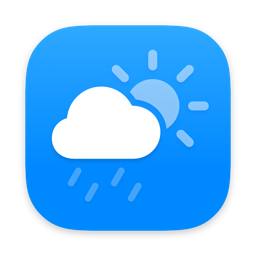
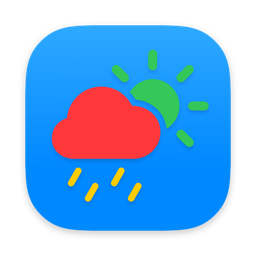
feat: make the default symbol palette red, green, yellow
The palette's three slots now default to three distinct hues, on both surfaces.
`ForegroundSpec.defaultPalette` is the one place they live, and the CLI help
text derives its `(default: ...)` from it.

The old default was the worse of two problems. Palette rendering was
`white, white:0.5, white:0.26` on the CLI, and one hue at three opacities is
*precisely* what hierarchical rendering draws -- so palette at its own default
rendered identically to hierarchical: maximum channel difference 4, 0.000% of
pixels changed on a three-layer symbol. Choosing palette and seeing no change
was the whole of what a user learned from it. It is 254 and 14.25% now, and the
badge's 204 and 8.18%.

**There were two defaults, and that is why this touches the CLI's structure.**
`ForegroundSpec` defaulted to white/mint/yellow while
`IconGenerationRunner.cliPaletteDefault` seeded white/white:0.5/white:0.26 over
it, so "the default palette" meant one thing to a flags-only `generate` and
another to `--config` and the GUI. That divergence is the only reason
`buildIconSettings` ever needed its `seedsCLIDefaults` flag. Both are deleted:
with one default, seeding it and leaving it alone produce the same settings, and
the palette now reads like every other flag -- assigned only when passed.
Verified: explicit `--icon-symbol-palette red,green,yellow` renders byte-
identically to passing nothing.

Also fixes two hardcoded defaults in help strings, which the plan's own rule
[…]

diff --git a/mica-cli/CLI/IconGenerationRunner.swift b/mica-cli/CLI/IconGenerationRunner.swift
@@ -8,14 +8,21 @@ import UniformTypeIdentifiers
 /// It parses nothing and owns no command-line surface — `GenerateCommand` does that.
 class IconGenerationRunner {
 
-    /// The palette `generate` falls back to when `--icon-symbol-palette` /
-    /// `--badge-symbol-palette` is absent: three tints of white.
-    ///
-    /// This is the one CLI default that genuinely differs from the model —
-    /// `ForegroundSpec` defaults to white/mint/yellow, which is the GUI's pick. It
-    /// is kept as a seed rather than an inline `??` so that `--config` can decline
-    /// it and let a configuration's own palette stand.
-    static let cliPaletteDefault = "white,white:0.5,white:0.26"
+    // There is no CLI palette default here any more, and that is the point.
+    //
+    // `cliPaletteDefault` used to hold "white,white:0.5,white:0.26" — the one CLI
+    // default that genuinely differed from the model's, which defaulted to
+    // white/mint/yellow. It existed as a *seed* rather than an inline `??` purely
+    // so `--config` could decline it and let a configuration's own palette stand,
+    // and it is the only reason `buildIconSettings` ever needed a
+    // `seedsCLIDefaults` flag.
+    //
+    // Both are gone as of 2026-08-18: `ForegroundSpec.defaultPalette` is now the
+    // single default for both surfaces, so seeding it and leaving it alone produce
+    // the same settings, and the palette reads like every other flag — assigned
+    // only when passed. Don't reintroduce a CLI-side palette default; a second
+    // default is what made a flags-only `generate` and a `--config` run disagree
+    // about a colour nobody had set.
 
     // MARK: - Main Generation Method
 
@@ -246,18 +253,13 @@ class IconGenerationRunner {
     /// **every** assignment here must be conditional on its flag being present — an
     /// unconditional write would silently discard what the user saved.
     ///
-    /// That is why almost nothing below assigns eagerly. The two deliberate
-    /// exceptions are the palette (see `cliPaletteDefault`) and the badge
-    /// activation rule, both commented where they happen.
+    /// That is why almost nothing below assigns eagerly. The one deliberate
+    /// exception left is the badge activation rule, commented where it happens.
+    /// The palette used to be the other; it no longer needs to be, because the
+    /// CLI and the model share one default now. See the note at the top of the
+    /// class.
     private func buildIconSettings(from command: GenerateCommand, onto base: IconSettings? = nil) throws -> IconSettings {
         var settings = base ?? IconSettings()
-
-        // The CLI's default palette is three tints of white, which deliberately
-        // differs from `ForegroundSpec`'s white/mint/yellow (the GUI's pick). It
-        // is a real CLI default, so a flags-only `generate` seeds it; `--config`
-        // must not, or a configuration's palette would be overwritten whenever
-        // the flag is absent.
-        let seedsCLIDefaults = (base == nil)
 
         do {
             // Export properties. Each flag is Optional and assigned only when
@@ -408,11 +410,10 @@ class IconGenerationRunner {
                 settings.icon.foreground.hierarchicalColor = parsed
             }
 
-            // Palette colours. A flags-only `generate` seeds the CLI default;
-            // `--config` leaves the configuration's palette alone unless
-            // --icon-symbol-palette says otherwise.
-            if let palette = command.iconForeground.symbolPalette
-                ?? (seedsCLIDefaults ? Self.cliPaletteDefault : nil) {
+            // Palette colours, assigned only when passed — like every other flag.
+            // An absent flag leaves `ForegroundSpec.defaultPalette` on a flags-only
+            // run, or a configuration's own palette under `--config`.
+            if let palette = command.iconForeground.symbolPalette {
                 let parts = try splitPalette(palette, role: "--icon-symbol-palette")
                 settings.icon.foreground.palettePrimaryColor = try MicaColorValue(strictlyParsing: parts[0])
                 settings.icon.foreground.paletteSecondaryColor = try MicaColorValue(strictlyParsing: parts[1])
@@ -572,9 +573,8 @@ class IconGenerationRunner {
                     settings.badge.foreground.hierarchicalColor = parsed
                 }
 
-                // Badge palette — seeded for `generate` only, as with the icon's.
-                if let badgePalette = command.badge.symbolPalette
-                    ?? (seedsCLIDefaults ? Self.cliPaletteDefault : nil) {
+                // Badge palette — assigned only when passed, as with the icon's.
+                if let badgePalette = command.badge.symbolPalette {
                     let parts = try splitPalette(badgePalette, role: "--badge-symbol-palette")
                     settings.badge.foreground.palettePrimaryColor = try MicaColorValue(strictlyParsing: parts[0])
                     settings.badge.foreground.paletteSecondaryColor = try MicaColorValue(strictlyParsing: parts[1])

diff --git a/mica-cli Tests/BaseOverrideTests.swift b/mica-cli Tests/BaseOverrideTests.swift
@@ -310,14 +310,35 @@ struct BaseOverrideTests {
 
     // MARK: - `generate` is unaffected
     //
-    // The same builder with no base must still produce the CLI's own defaults,
-    // including the palette that differs from the model's.
+    // The same builder with no base must still produce the model's defaults.
 
-    @Test("generate still seeds the CLI's white palette")
-    func generateStillSeedsTheCLIPalette() throws {
+    // Asserts against `ForegroundSpec.defaultPalette` rather than three literals,
+    // deliberately: the claim is that the CLI and the model agree on the palette,
+    // and a literal here would let them drift apart while the test still passed.
+    // There were two palette defaults until 2026-08-18 — the CLI seeded
+    // white/white:0.5/white:0.26 over the model's white/mint/yellow — and this is
+    // the test that would have caught a re-divergence.
+    @Test("a flags-only generate leaves the model's palette default in place")
+    func generateUsesTheModelPaletteDefault() throws {
         let settings = try IconGenerationRunner().buildTestSettings(from: parseCommand(["--icon-symbol", "star.fill"]))
-        #expect(settings.icon.foreground.palettePrimaryColor == (try MicaColorValue(parsing: "white")))
-        #expect(settings.icon.foreground.paletteSecondaryColor == (try MicaColorValue(parsing: "white:0.5")))
-        #expect(settings.icon.foreground.paletteTertiaryColor == (try MicaColorValue(parsing: "white:0.26")))
+        #expect(settings.icon.foreground.palettePrimaryColor == ForegroundSpec.defaultPalette[0])
+        #expect(settings.icon.foreground.paletteSecondaryColor == ForegroundSpec.defaultPalette[1])
+        #expect(settings.icon.foreground.paletteTertiaryColor == ForegroundSpec.defaultPalette[2])
+        #expect(settings.badge.foreground.palettePrimaryColor == ForegroundSpec.defaultPalette[0])
+        #expect(settings.badge.foreground.paletteSecondaryColor == ForegroundSpec.defaultPalette[1])
+        #expect(settings.badge.foreground.paletteTertiaryColor == ForegroundSpec.defaultPalette[2])
+    }
+
+    // The reason the default is three hues and not three tints of one. Palette at
+    // its default used to render *identically* to hierarchical, because
+    // white/white:0.5/white:0.26 is exactly what hierarchical draws — so choosing
+    // palette and seeing no change was all a reader learned. This pins the fix at
+    // the level that matters: the three slots must be three different colours.
+    @Test("the default palette is three distinct colours, so palette differs from hierarchical")
+    func defaultPaletteIsThreeDistinctColours() throws {
+        let palette = ForegroundSpec.defaultPalette
+        #expect(palette.count == 3)
+        #expect(Set(palette.map(\.stringValue)).count == 3, "the default palette must not be three tints of one colour")
+        #expect(ForegroundSpec.defaultPaletteCLIValue == "red,green,yellow")
     }
 }

diff --git a/Mica/Models/IconSettings.swift b/Mica/Models/IconSettings.swift
@@ -278,6 +278,29 @@ struct ForegroundSpec: Equatable {
     static let symbolScaleRange: ClosedRange<Double> = 0.3...2.0
     static let imageScaleRange: ClosedRange<Double> = 0.3...2.0
 
+    /// The palette's three slots, primary first — and **three distinct hues on
+    /// purpose**, because the default is the only thing that tells a reader what
+    /// palette rendering *is*.
+    ///
+    /// It was `white, white:0.5, white:0.26` on the CLI and `white, mint, yellow`
+    /// in the model until 2026-08-18. The white tints were the worse half of that,
+    /// and not by a little: one hue at three opacities is *precisely* what
+    /// hierarchical rendering draws, so palette at its own default rendered
+    /// **identically** to hierarchical — measured at a maximum channel difference
+    /// of 4 and 0.000% of pixels changed on a three-layer symbol. Choosing palette
+    /// and seeing no change is the whole of what a reader learned from it.
+    ///
+    /// Keep them distinct hues, then, rather than tints of one. The point of the
+    /// mode is that each layer takes its own colour, and the default has to show it.
+    static let defaultPalette: [MicaColorValue] = [.red, .green, .yellow]
+
+    /// `defaultPalette` as the `--icon-symbol-palette` / `--badge-symbol-palette`
+    /// value that reproduces it, for help text. Derived, so a help string can
+    /// never drift from the constant the way the two hardcoded ones did.
+    static var defaultPaletteCLIValue: String {
+        defaultPalette.map(\.stringValue).joined(separator: ",")
+    }
+
     var source: ForegroundSource = .symbol
     var symbolName: String
     var symbolWeight: SymbolWeight = .auto
@@ -288,9 +311,9 @@ struct ForegroundSpec: Equatable {
     var renderingStyle: SymbolRenderingStyle = .monochrome
     var fillStyle: SymbolFillStyle = .flat
     var hierarchicalColor: MicaColorValue = .white
-    var palettePrimaryColor: MicaColorValue = .white
-    var paletteSecondaryColor: MicaColorValue = .mint
-    var paletteTertiaryColor: MicaColorValue = .yellow
+    var palettePrimaryColor: MicaColorValue = ForegroundSpec.defaultPalette[0]
+    var paletteSecondaryColor: MicaColorValue = ForegroundSpec.defaultPalette[1]
+    var paletteTertiaryColor: MicaColorValue = ForegroundSpec.defaultPalette[2]
     var drawsShadow: Bool = true
     var isHidden: Bool
 

diff --git a/Mica/Services/MicaConfig.swift b/Mica/Services/MicaConfig.swift
@@ -34,11 +34,12 @@
 //   defaults, the inverted padding keys, mode-polymorphic colour keys. The
 //   equivalence test in `ConfigFlagParityTests` is the drift alarm; change one
 //   side only with that test in view.
-// - **The palette is NOT seeded.** A flags-only `generate` seeds the CLI's
-//   white-tints palette; a configuration is a *base*, so an absent
-//   `icon-symbol-palette` means the model default (white/mint/yellow), exactly
-//   as `--config`'s override machinery expects. This is the one deliberate
+// - **An absent `icon-symbol-palette` means `ForegroundSpec.defaultPalette`**,
+//   and it means that on both surfaces. Until 2026-08-18 it did not: a flags-only
+//   `generate` seeded a CLI-only white-tints palette while a configuration fell
+//   back to the model's white/mint/yellow, which was the one deliberate
 //   divergence between "decode a config" and "parse the same values as flags".
+//   One default now, so there is nothing here to keep in step.
 //
 // Imported images are file paths (like the flags): relative paths resolve
 // against the JSON file's directory, and the GUI export allocates sidecar PNGs
@@ -677,8 +678,8 @@ private struct ConfigReader {
         } else if let symbol = appexColor(.iconSymbolColor) {
             appexColors.iconSymbol = symbol
         }
-        // The palette is deliberately NOT seeded with the CLI default — a
-        // configuration is a base, and an absent key means the model default.
+        // An absent key means `ForegroundSpec.defaultPalette`, which is what the
+        // flags do too — a configuration is a base, and there is one default.
         if let parts = colorList(.iconSymbolPalette, expecting: 3) {
             if let primary = parseColor(parts[0], key: .iconSymbolPalette) {
                 settings.icon.foreground.palettePrimaryColor = primary

diff --git a/mica-cli/CLI/GenerateCommand.swift b/mica-cli/CLI/GenerateCommand.swift
@@ -343,7 +343,7 @@ struct IconForegroundOptions: ParsableArguments {
         name: .customLong("icon-symbol-palette"),
         help: ArgumentHelp(
             "Palette colors for palette rendering",
-            discussion: "Three comma-separated colors 'c1,c2,c3', each taking any single-colour form that contains no comma (e.g. 'blue,white:0.5,white:0.26'). Default: white,white:0.5,white:0.26.",
+            discussion: "Three comma-separated colors 'c1,c2,c3', each taking any single-colour form that contains no comma (e.g. 'blue,white:0.5,white:0.26'). \(defaultNote(ForegroundSpec.defaultPaletteCLIValue))",
             valueName: "c1,c2,c3"
         )
     )
@@ -668,7 +668,7 @@ struct BadgeOptions: ParsableArguments {
         name: .customLong("badge-symbol-palette"),
         help: ArgumentHelp(
             "Palette colors for badge palette rendering",
-            discussion: "Three comma-separated colors 'c1,c2,c3', each taking any single-colour form that contains no comma. Default: white,white:0.5,white:0.26.",
+            discussion: "Three comma-separated colors 'c1,c2,c3', each taking any single-colour form that contains no comma. \(defaultNote(ForegroundSpec.defaultPaletteCLIValue))",
             valueName: "c1,c2,c3"
         )
     )

diff --git a/wiki/images/MANIFEST.md b/wiki/images/MANIFEST.md
@@ -22,11 +22,11 @@ one, so the page and the picture cannot disagree.
 | `icon-symbol-rendering-monochrome.png` | `icon-symbol-rendering` | `monochrome` | `mica-cli --icon-symbol cloud.sun.rain.fill --size 256 --icon-symbol-rendering monochrome` |
 | `icon-symbol-rendering-hierarchical.png` | `icon-symbol-rendering` | `hierarchical` | `mica-cli --icon-symbol cloud.sun.rain.fill --size 256 --icon-symbol-rendering hierarchical` |
 | `icon-symbol-rendering-multicolor.png` | `icon-symbol-rendering` | `multicolor` | `mica-cli --icon-symbol cloud.sun.rain.fill --size 256 --icon-symbol-rendering multicolor` |
-| `icon-symbol-rendering-palette.png` | `icon-symbol-rendering` | `palette` | `mica-cli --icon-symbol cloud.sun.rain.fill --size 256 --icon-symbol-rendering palette --icon-symbol-palette yellow,white,cyan` |
+| `icon-symbol-rendering-palette.png` | `icon-symbol-rendering` | `palette` | `mica-cli --icon-symbol cloud.sun.rain.fill --size 256 --icon-symbol-rendering palette` |
 | `icon-symbol-color-white.png` | `icon-symbol-color` | `white` | `mica-cli --icon-symbol star.fill --size 256 --icon-symbol-color white` |
 | `icon-symbol-color-black.png` | `icon-symbol-color` | `black` | `mica-cli --icon-symbol star.fill --size 256 --icon-symbol-color black` |
 | `icon-symbol-color-yellow.png` | `icon-symbol-color` | `yellow` | `mica-cli --icon-symbol star.fill --size 256 --icon-symbol-color yellow` |
-| `icon-symbol-palette-default.png` | `icon-symbol-palette` | `default` | `mica-cli --icon-symbol cloud.sun.rain.fill --size 256 --icon-symbol-rendering palette --icon-symbol-palette white,white:0.5,white:0.26` |
+| `icon-symbol-palette-default.png` | `icon-symbol-palette` | `default` | `mica-cli --icon-symbol cloud.sun.rain.fill --size 256 --icon-symbol-rendering palette` |
 | `icon-symbol-palette-custom.png` | `icon-symbol-palette` | `custom` | `mica-cli --icon-symbol cloud.sun.rain.fill --size 256 --icon-symbol-rendering palette --icon-symbol-palette yellow,white,cyan` |
 | `icon-symbol-weight-ultralight.png` | `icon-symbol-weight` | `ultralight` | `mica-cli --icon-symbol star.fill --size 256 --icon-symbol-weight ultralight` |
 | `icon-symbol-weight-regular.png` | `icon-symbol-weight` | `regular` | `mica-cli --icon-symbol star.fill --size 256 --icon-symbol-weight regular` |
@@ -82,11 +82,11 @@ one, so the page and the picture cannot disagree.
 | `badge-symbol-rendering-monochrome.png` | `badge-symbol-rendering` | `monochrome` | `mica-cli --icon-symbol star.fill --size 512 --badge-symbol cloud.sun.rain.fill --badge-scale 2.0 --badge-symbol-rendering monochrome` |
 | `badge-symbol-rendering-hierarchical.png` | `badge-symbol-rendering` | `hierarchical` | `mica-cli --icon-symbol star.fill --size 512 --badge-symbol cloud.sun.rain.fill --badge-scale 2.0 --badge-symbol-rendering hierarchical` |
 | `badge-symbol-rendering-multicolor.png` | `badge-symbol-rendering` | `multicolor` | `mica-cli --icon-symbol star.fill --size 512 --badge-symbol cloud.sun.rain.fill --badge-scale 2.0 --badge-symbol-rendering multicolor` |
-| `badge-symbol-rendering-palette.png` | `badge-symbol-rendering` | `palette` | `mica-cli --icon-symbol star.fill --size 512 --badge-symbol cloud.sun.rain.fill --badge-scale 2.0 --badge-symbol-rendering palette --badge-symbol-palette yellow,white,cyan` |
+| `badge-symbol-rendering-palette.png` | `badge-symbol-rendering` | `palette` | `mica-cli --icon-symbol star.fill --size 512 --badge-symbol cloud.sun.rain.fill --badge-scale 2.0 --badge-symbol-rendering palette` |
 | `badge-symbol-color-white.png` | `badge-symbol-color` | `white` | `mica-cli --icon-symbol star.fill --badge-symbol plus --size 512 --badge-symbol-color white` |
 | `badge-symbol-color-black.png` | `badge-symbol-color` | `black` | `mica-cli --icon-symbol star.fill --badge-symbol plus --size 512 --badge-symbol-color black` |
 | `badge-symbol-color-yellow.png` | `badge-symbol-color` | `yellow` | `mica-cli --icon-symbol star.fill --badge-symbol plus --size 512 --badge-symbol-color yellow` |
-| `badge-symbol-palette-default.png` | `badge-symbol-palette` | `default` | `mica-cli --icon-symbol star.fill --size 512 --badge-symbol cloud.sun.rain.fill --badge-scale 2.0 --badge-symbol-rendering palette --badge-symbol-palette white,white:0.5,white:0.26` |
+| `badge-symbol-palette-default.png` | `badge-symbol-palette` | `default` | `mica-cli --icon-symbol star.fill --size 512 --badge-symbol cloud.sun.rain.fill --badge-scale 2.0 --badge-symbol-rendering palette` |
 | `badge-symbol-palette-custom.png` | `badge-symbol-palette` | `custom` | `mica-cli --icon-symbol star.fill --size 512 --badge-symbol cloud.sun.rain.fill --badge-scale 2.0 --badge-symbol-rendering palette --badge-symbol-palette yellow,white,cyan` |
 | `badge-symbol-weight-ultralight.png` | `badge-symbol-weight` | `ultralight` | `mica-cli --icon-symbol star.fill --badge-symbol plus --size 512 --badge-symbol-weight ultralight` |
 | `badge-symbol-weight-regular.png` | `badge-symbol-weight` | `regular` | `mica-cli --icon-symbol star.fill --badge-symbol plus --size 512 --badge-symbol-weight regular` |

diff --git a/wiki/CLI-Reference.md b/wiki/CLI-Reference.md
@@ -43,7 +43,7 @@ Neither shorthand is a configuration key. In a `.json` file, write `"icon-fg": "
 | `--icon-fg-scale` | 0.3–2.0 | 1.0 | Foreground scale multiplier (drives whichever source is active). |
 | `--icon-symbol-rendering` | `monochrome`, `hierarchical`, `multicolor`, `palette` | `monochrome` | SF Symbol rendering mode. |
 | `--icon-symbol-color` | any [colour](Colour-Formats) | `white` | Symbol colour (monochrome, hierarchical, and multicolor modes). In system mode: an appex colour. |
-| `--icon-symbol-palette` | `c1,c2,c3` | `white,white:0.5,white:0.26` | Palette-mode colours; the 2nd and 3rd accept an `:opacity` suffix. |
+| `--icon-symbol-palette` | `c1,c2,c3` | `red,green,yellow` | Palette-mode colours; every slot accepts an `:opacity` suffix. |
 | `--icon-symbol-weight` | `auto`, `ultralight`, `thin`, `light`, `regular`, `medium`, `semibold`, `bold`, `heavy`, `black` | `auto` | Symbol weight. `auto` uses Mica's per-symbol calibration. |
 | `--icon-symbol-gradient` | `on`, `off` | `off` | Gradient fill on the symbol colour (requires macOS 26+). |
 | `--icon-fg-shadow` | `on`, `off` | `on` for SF Symbols, `off` for images | Drop shadow behind the foreground. |
@@ -81,7 +81,7 @@ its own.
 | `--badge-fg-scale` | 0.3–2.0 | 1.0 | Badge foreground scale multiplier. |
 | `--badge-symbol-rendering` | `monochrome`, `hierarchical`, `multicolor`, `palette` | `monochrome` | Badge symbol rendering mode. |
 | `--badge-symbol-color` | any [colour](Colour-Formats) | `white` | Badge symbol colour. |
-| `--badge-symbol-palette` | `c1,c2,c3` | `white,white:0.5,white:0.26` | Badge palette-mode colours. |
+| `--badge-symbol-palette` | `c1,c2,c3` | `red,green,yellow` | Badge palette-mode colours. |
 | `--badge-symbol-weight` | as icon weights | `auto` | Badge symbol weight. |
 | `--badge-symbol-gradient` | `on`, `off` | `off` | Gradient fill on the badge symbol colour (macOS 26+). |
 | `--badge-fg-shadow` | `on`, `off` | `on` for SF Symbols, `off` for images | Badge foreground drop shadow. |

diff --git a/wiki/Colour-Formats.md b/wiki/Colour-Formats.md
@@ -91,7 +91,7 @@ Four options take several colours at once and split their value on commas:
 --icon-symbol-palette       --badge-symbol-palette
 ```
 
-Only the comma-free forms work inside them — a name, hex, or either with an opacity suffix. `srgb:`, `display-p3:` and the extended forms cannot be used there. That is why the default palette reads `white,white:0.5,white:0.26`.
+Only the comma-free forms work inside them — a name, hex, or either with an opacity suffix. `srgb:`, `display-p3:` and the extended forms cannot be used there.
 
 In a JSON configuration these four keys also accept a JSON array, which *is* able to carry a comma-containing colour:
 
